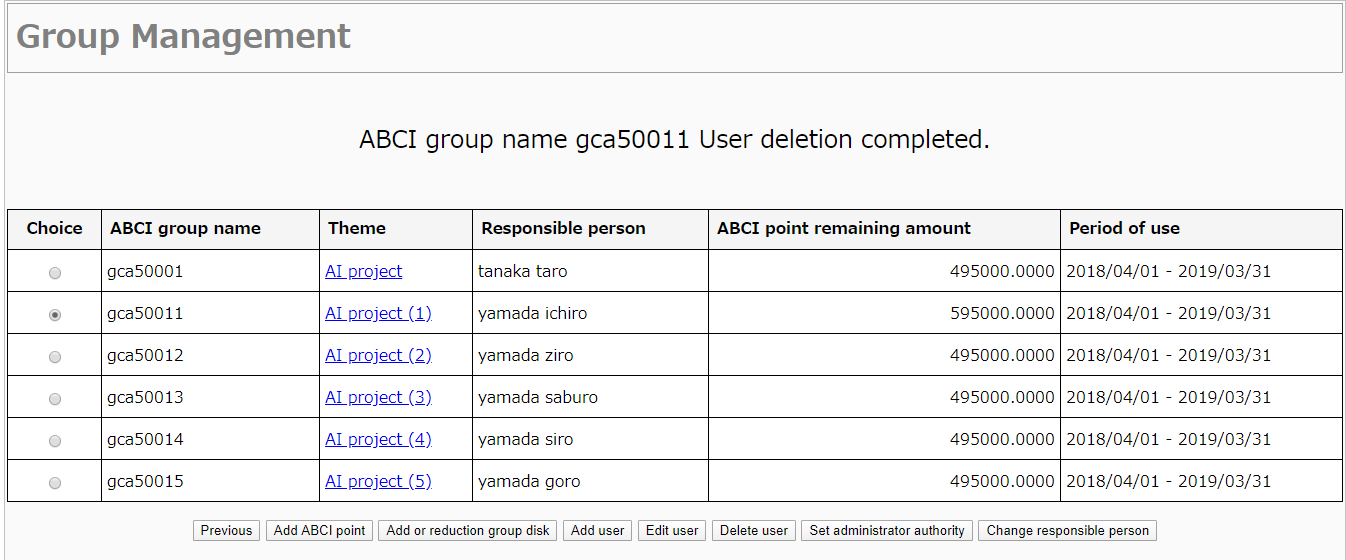
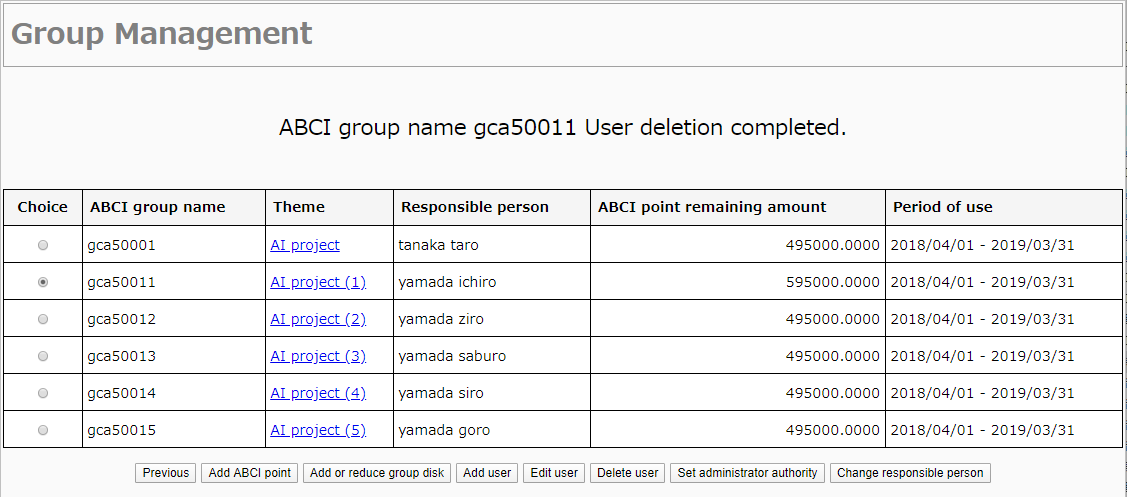
ticket #1942#note-7 taiou.

Changed region(s): [[0.0, 0.0, 1.0, 1.0], [0.2484, 0.2113, 0.7453, 0.2716]]

diff --git a/portal/en/docs/03.md b/portal/en/docs/03.md
@@ -92,12 +92,12 @@ You can correct it from the input content correction screen and apply again.
 
 ### 3.5.2. Disk Addition or Reduction Request
 
-Select the ABCI group from the list of group management, and click the "Add or reduction group disk" button.
+Select the ABCI group from the list of group management, and click the "Add or reduce group disk" button.
  
 ![[[Screenshot]]](img/3_11.png)
 
 Enter additional disk volume and click the "Apply" button.
-Select "Add" or "Reduction", enter the disk volume and click the "Apply" button.
+Select "Add" or "Reduce", enter the disk volume and click the "Apply" button.
 When the dialog box is displayed, click the "OK" button.
 
 ![[[Screenshot]]](img/3_12.png)
